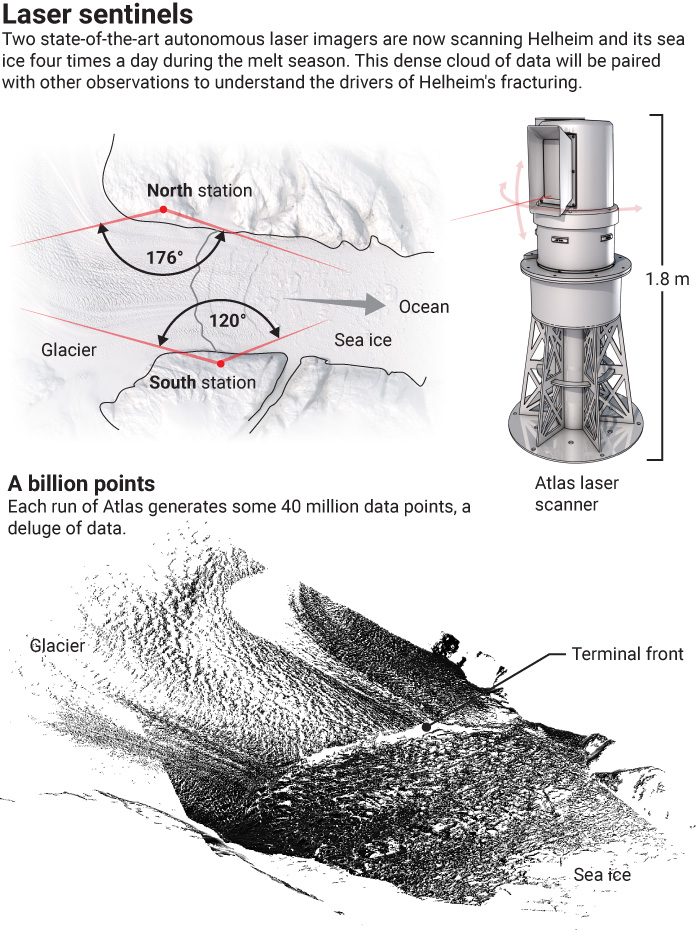
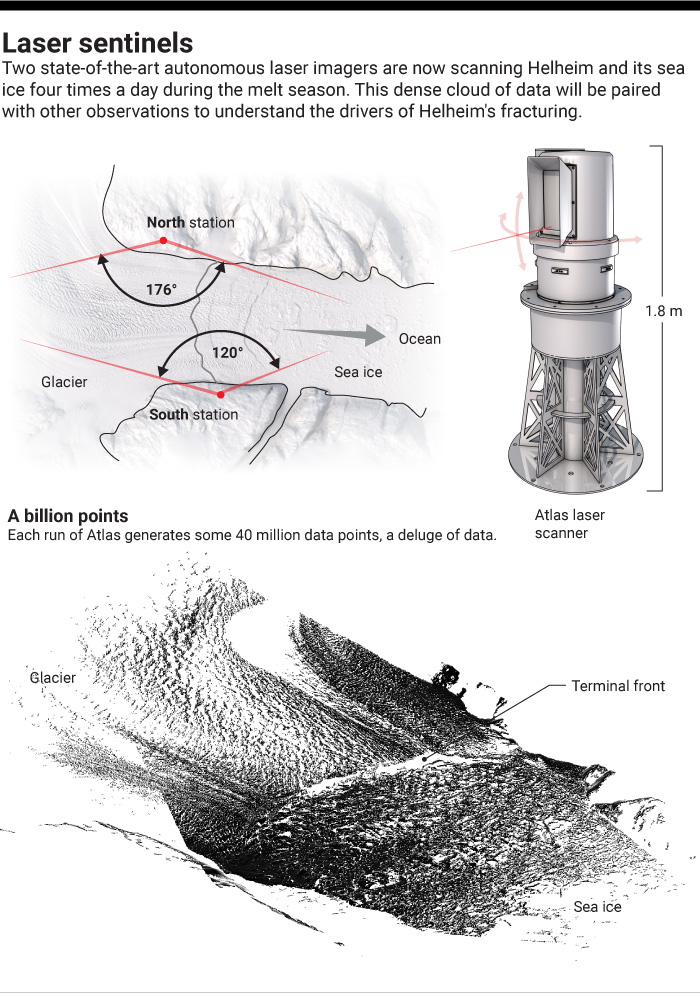
s

diff --git a/index.html b/index.html
@@ -141,7 +141,7 @@
     </div>
     <div class="caption-center">
       <figcaption>
-The Adolph Jensen in the Sermilik Fjord, Greenland (left).<span class = "credit">CREDIT: Dave Sutherland/University of Oregon.</span> Oceanographers collected water samples and measured temperature and salinity in Sermilik Fjord’s ice-choked northern section (right). <span class = "credit">CREDIT: P. VOOSEN/SCIENCE </span>
+The Adolph Jensen in the Sermilik Fjord, Greenland (left).<span class = "credit">CREDIT: Dave Sutherland/University of Oregon</span> Oceanographers collected water samples and measured temperature and salinity in Sermilik Fjord’s ice-choked northern section (right). <span class = "credit">CREDIT: P. VOOSEN/SCIENCE </span>
 
 </figcaption>
 
@@ -238,7 +238,8 @@ system to find patterns relevant across all of Greenland.</p>
     </section>
   </section>
   <div class="caption-center">
-    <figcaption>GRAPHIC: C. Bickel/ <i>Science</i></figcaption>
+    <figcaption>
+      <span class = "credit">GRAPHIC: C. Bickel/ <i>Science</i></span></figcaption>
 
 
   </div>
@@ -330,10 +331,11 @@ geopebbles, on the ice close to the calving front(right).</figcaption>
 		</section> -->
   <section class="section content ">
     <div class="row">
-      <hr id="tophr">
+      <!-- <hr id="tophr"> -->
       <img src="img/laserV.jpg" alt="">
-<hr>
-    <figcaption>GRAPHIC: C. Bickel/ <i>Science</i></figcaption>
+<!-- <hr> -->
+<figcaption>
+  <span class = "credit">GRAPHIC: C. Bickel/ <i>Science</i></span></figcaption>
 
     </div>
 
